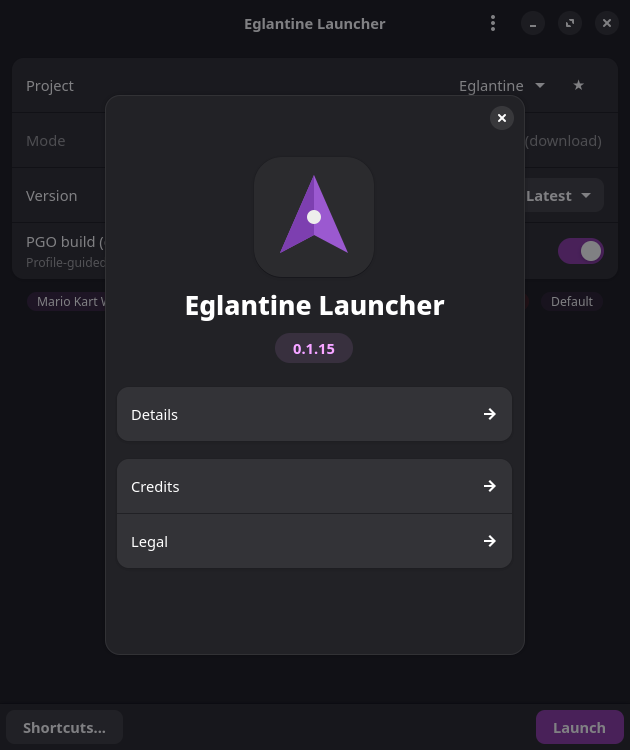
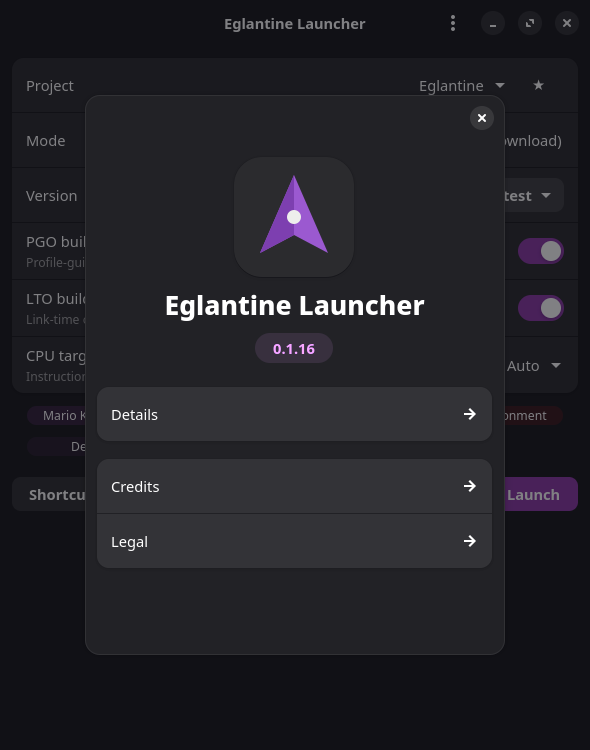
0.1.16

diff --git a/eglantine_launcher/__init__.py b/eglantine_launcher/__init__.py
@@ -1,2 +1,2 @@
 APP_ID = "dev.savagecore.EglantineLauncher"
-__version__ = "0.1.15"
+__version__ = "0.1.16"
